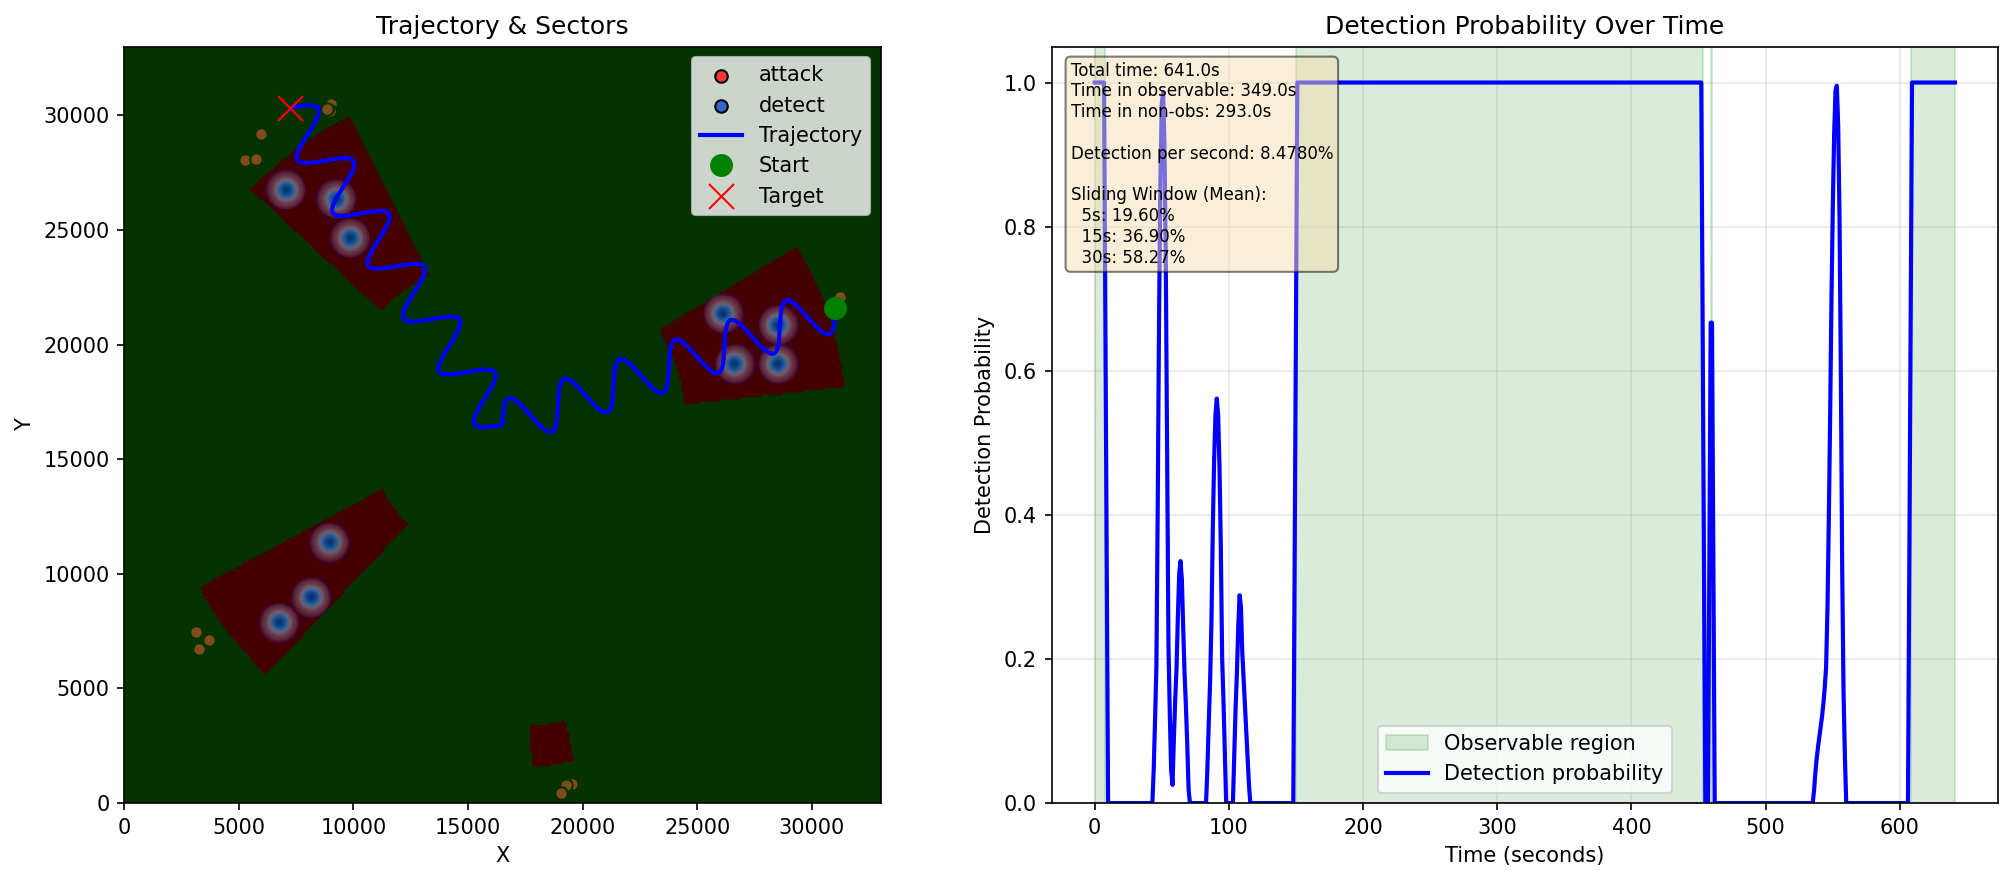
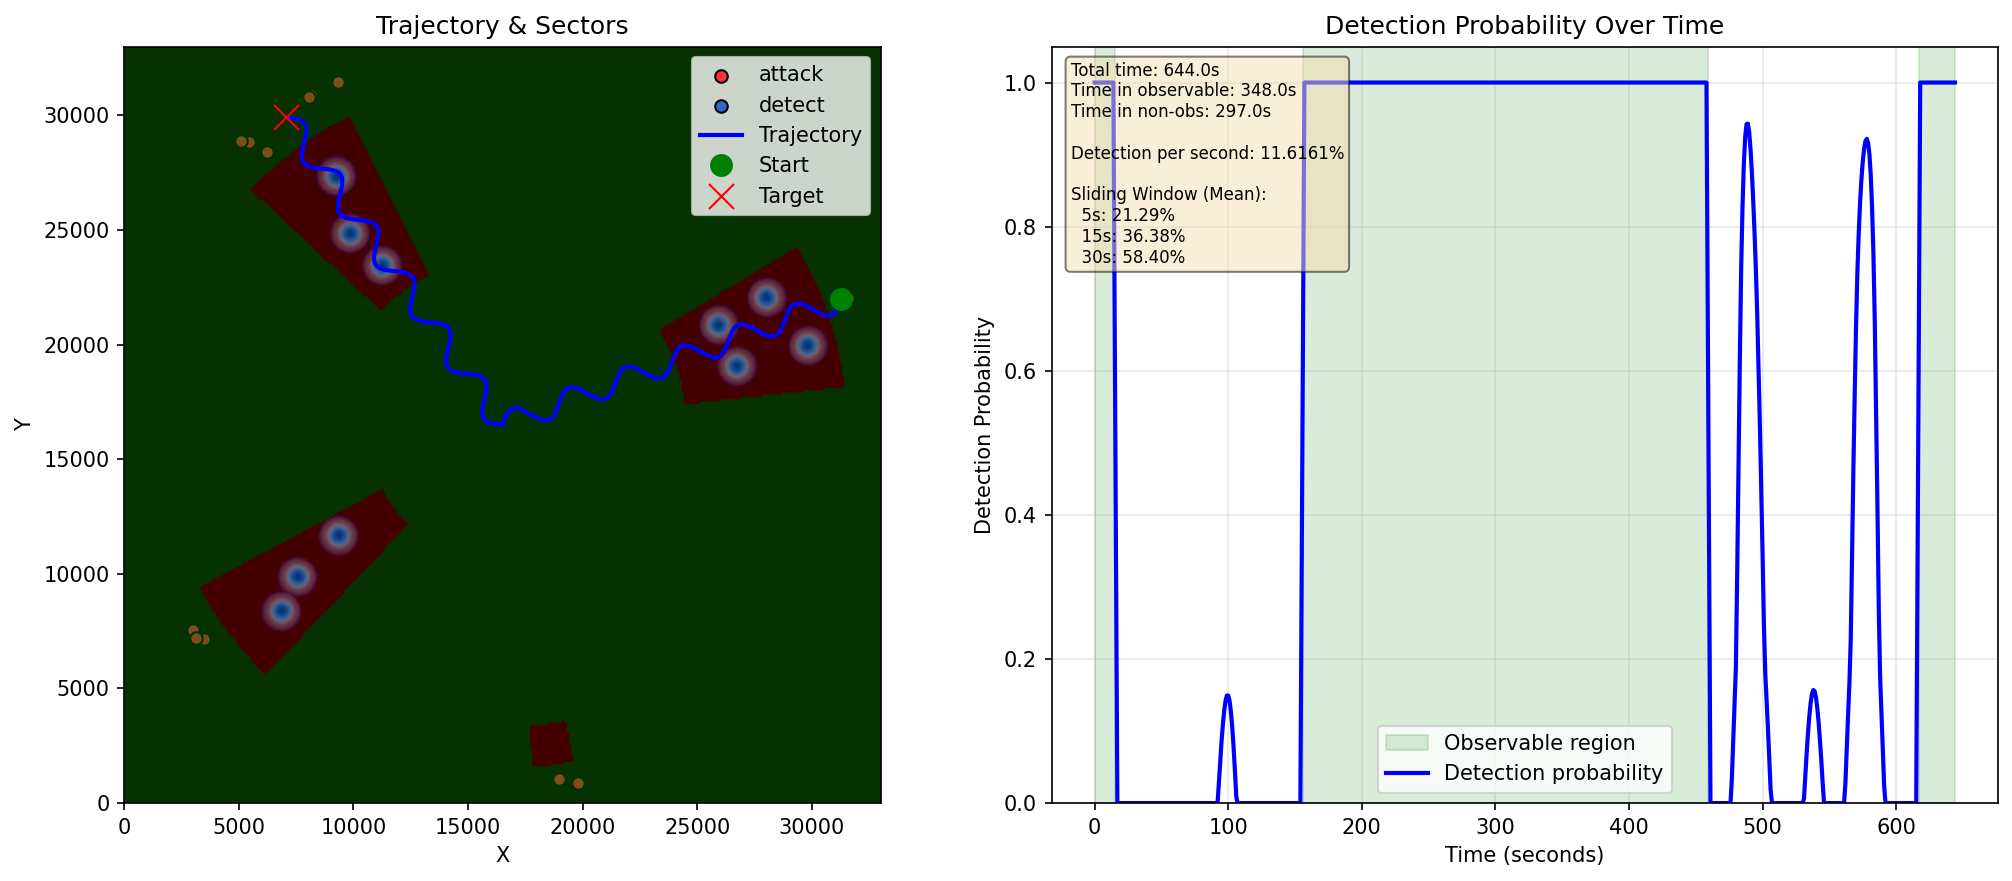
updated readme and fixed zigzag

diff --git a/quick_test_zigzag_noise.py b/quick_test_zigzag_noise.py
@@ -1,0 +1,118 @@
+"""
+Quick visual test: Generate and plot a single trajectory with zig-zag + noise
+to verify the pattern is visible before running a full sweep.
+"""
+import sys
+from pathlib import Path
+sys.path.insert(0, str(Path(__file__).parent / 'src'))
+
+import matplotlib.pyplot as plt
+import numpy as np
+from src.attackers import Attacker
+
+# Test parameters
+start = (6000, 6000)
+mid = (16000, 16000)
+target = (28000, 20000)
+
+# Generate three trajectories for comparison:
+# 1. Linear (no zig-zag, no noise)
+# 2. Zig-zag only (no noise)
+# 3. Zig-zag with noise
+
+print("Generating trajectories...")
+
+# 1. Linear
+a_linear = Attacker(
+    start_position=start,
+    waypoints=[mid],
+    target_position=target,
+    use_dynamic_trajectory=False,
+    steps=200,
+    noise_std=0.0
+)
+
+# 2. Zig-zag only (large amplitude for visibility)
+a_zigzag = Attacker(
+    start_position=start,
+    waypoints=[mid],
+    target_position=target,
+    use_dynamic_trajectory=True,
+    trajectory_aggressiveness=2.0,
+    steps=600,
+    noise_std=0.0
+)
+# Set large zig-zag parameters
+a_zigzag.zigzag_amplitude = 3000.0
+a_zigzag.zigzag_frequency = 8.0
+a_zigzag.trajectory = a_zigzag.generate_trajectory()
+
+# 3. Zig-zag with noise
+a_zigzag_noise = Attacker(
+    start_position=start,
+    waypoints=[mid],
+    target_position=target,
+    use_dynamic_trajectory=True,
+    trajectory_aggressiveness=2.0,
+    steps=600,
+    noise_std=60.0  # 60m noise
+)
+# Set same large zig-zag parameters
+a_zigzag_noise.zigzag_amplitude = 3000.0
+a_zigzag_noise.zigzag_frequency = 8.0
+a_zigzag_noise.trajectory = a_zigzag_noise.generate_trajectory()
+
+# Plot all three
+traj_linear = np.array(a_linear.trajectory)
+traj_zigzag = np.array(a_zigzag.trajectory)
+traj_zigzag_noise = np.array(a_zigzag_noise.trajectory)
+
+plt.figure(figsize=(14, 8))
+plt.plot(traj_linear[:, 0], traj_linear[:, 1], '-', color='gray', linewidth=1.5, alpha=0.7, label='Linear (no zig-zag, no noise)')
+plt.plot(traj_zigzag[:, 0], traj_zigzag[:, 1], '-', color='blue', linewidth=1.5, alpha=0.8, label='Zig-zag (amplitude=3000m, freq=8, no noise)')
+plt.plot(traj_zigzag_noise[:, 0], traj_zigzag_noise[:, 1], '-', color='red', linewidth=1.5, alpha=0.8, label='Zig-zag + noise (60m std)')
+
+plt.scatter([start[0]], [start[1]], c='green', s=100, marker='o', label='Start', zorder=10)
+plt.scatter([mid[0]], [mid[1]], c='orange', s=100, marker='s', label='Waypoint', zorder=10)
+plt.scatter([target[0]], [target[1]], c='red', s=100, marker='X', label='Target', zorder=10)
+
+plt.xlabel('X (meters)', fontsize=12)
+plt.ylabel('Y (meters)', fontsize=12)
+plt.title('Trajectory Comparison: Linear vs Zig-Zag vs Zig-Zag+Noise', fontsize=14, fontweight='bold')
+plt.legend(loc='upper right', fontsize=10)
+plt.grid(alpha=0.3)
+plt.axis('equal')
+plt.tight_layout()
+
+output_file = 'quick_test_zigzag_noise.png'
+plt.savefig(output_file, dpi=150, bbox_inches='tight')
+print(f"\n✅ Saved comparison plot to: {output_file}")
+print(f"\nTrajectory stats:")
+print(f"  Linear:          {len(traj_linear)} points")
+print(f"  Zig-zag:         {len(traj_zigzag)} points")
+print(f"  Zig-zag + noise: {len(traj_zigzag_noise)} points")
+
+# Compute perpendicular offsets to quantify zig-zag amplitude
+def compute_perp_offsets(traj, start, target):
+    start_np = np.array(start, dtype=float)
+    end_np = np.array(target, dtype=float)
+    main_dir = end_np - start_np
+    main_len = np.linalg.norm(main_dir)
+    main_unit = main_dir / (main_len + 1e-12)
+    perp = np.array([-main_unit[1], main_unit[0]])
+    offsets = [np.dot(np.array(p) - start_np, perp) for p in traj]
+    return offsets
+
+offsets_linear = compute_perp_offsets(traj_linear, start, target)
+offsets_zigzag = compute_perp_offsets(traj_zigzag, start, target)
+offsets_zigzag_noise = compute_perp_offsets(traj_zigzag_noise, start, target)
+
+print(f"\nPerpendicular offset range (meters):")
+print(f"  Linear:          [{min(offsets_linear):.1f}, {max(offsets_linear):.1f}]")
+print(f"  Zig-zag:         [{min(offsets_zigzag):.1f}, {max(offsets_zigzag):.1f}]")
+print(f"  Zig-zag + noise: [{min(offsets_zigzag_noise):.1f}, {max(offsets_zigzag_noise):.1f}]")
+
+print(f"\n🎯 If zig-zag is working correctly, you should see:")
+print(f"   - Gray line: Nearly straight (small offsets)")
+print(f"   - Blue line: Clear sinusoidal oscillation (large offsets)")
+print(f"   - Red line: Oscillation with additional random jitter from noise")

diff --git a/README.md b/README.md
@@ -22,9 +22,15 @@ uv run gradio src/vis.py
 
 ----
 
-### Example Trajectory for a fixed amount of detectors with equal detection distribution.
+### Example Trajectory with noise for a fixed amount of detectors with equal detection distribution.
 
 ![alt text](results/plots_with_detectors/trajectory_13_exclude_observable.png)
+
+
+### Zig-Zag Trajectory without noise for a fixed amount of detectors with equal detection distribution.
+
+![alt text](results/test_zigzag/plots_with_detectors/trajectory_8_exclude_observable.png)
+
 
 # Further work 
 
